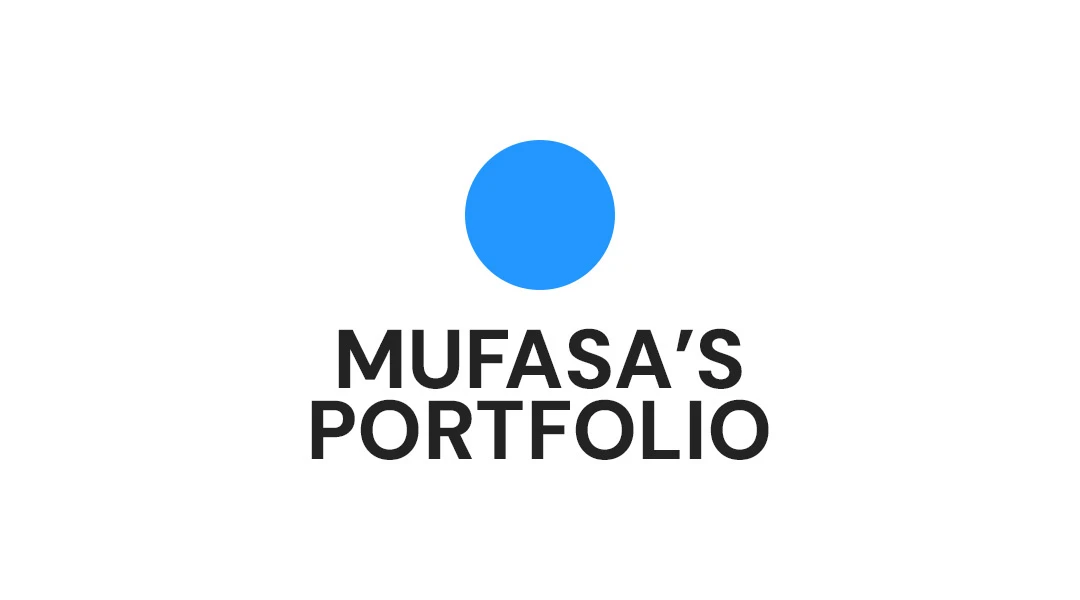
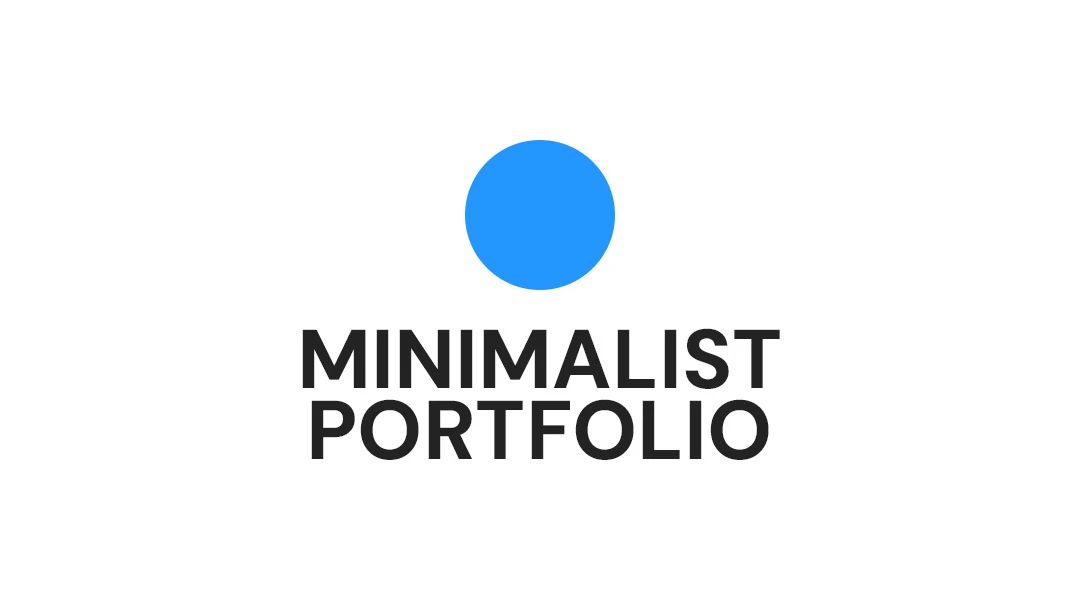
update: styling changes for article and content update for index.html

Changed region(s): [[0.275, 0.54, 0.7333, 0.66]]

diff --git a/index.html b/index.html
@@ -7,15 +7,15 @@
     <link rel="apple-touch-icon" href="/assets/favicon.ico">
 
     <!-- title -->
-    <title>Mufasa's Portfolio</title>
+    <title>Minimalist Portfolio</title>
 
     <!-- meta tags -->
-    <meta name="description" content="Mufasa's portfolio">
-    <meta name="keywords" content="mufasa, mufasa alam, muhfasul, muhfasul alam, mufasa a, alam, portfolio">
+    <meta name="description" content="A minimalist portfolio website, built with performance in mind.">
+    <meta name="keywords" content="portfolio, minimalist, web development, web design, projects, minimalism">
     <meta name="author" content="mufasa159">
     <meta name="robots" content="index, follow">
     <meta name="og:image" content="/assets/image.webp">
-    <meta name="og:url" content="https://mufasa.cc/">
+    <meta name="og:url" content="https://mufasa159.github.io/portfolio">
 
     <link rel="stylesheet" href="/css/variables.css">
     <link rel="stylesheet" href="/css/global.css">
@@ -36,6 +36,6 @@
     <div id="modal"></div>
 
     <!-- copyright -->
-    <footer><p>© 2021 - 2024 Muhfasul Alam, All rights reserved.</p></footer>
+    <footer><p>© 2021 - 2024 @mufasa159, All rights reserved.</p></footer>
 </body>
 </html>

diff --git a/css/components/article.css b/css/components/article.css
@@ -1,3 +1,5 @@
+@import url('https://fonts.googleapis.com/css2?family=Roboto+Mono:ital,wght@0,100..700;1,100..700&display=swap');
+
 .article {
     margin: -80px auto;
     max-width: 800px;
@@ -57,13 +59,38 @@ hr {
     border-top: 1px solid var(--component-background);
 }
 
-pre {
-    background-color: var(--code-background);
-    padding: 20px;
-    border: 1px solid var(--code-border);
-    border-radius: 5px;
-    font-size: 1em;
+pre,
+code {
+    font-family: 'Roboto Mono', monospace;
+    max-width: 100%;
     overflow-x: auto;
+    font-weight: 400;
+}
+
+pre {
+    font-size: 0.9rem;
+    background-color: var(--code-background);
+    padding: 10px;
+    border-radius: 5px;
+    border: 1px solid var(--code-border);
+    color: var(--code-text-block);
+}
+
+code {
+    font-size: 0.8rem;
+    background-color: var(--code-background);
+    padding: 2px 5px;
+    border-radius: 3px;
+    border: 1px solid var(--code-border);
+    color: var(--code-text-single);
+}
+
+pre code {
+    font-size: 0.9rem;
+    padding: 0;
+    border: none;
+    background-color: transparent;
+    color: var(--code-text-block);
 }
 
 img {

diff --git a/data/blog/sample_4.html b/data/blog/sample_4.html
@@ -42,7 +42,7 @@
     </section>
     <section>
         <h2>Example Code Snippets</h2>
-        <h3>Using Callbacks</h3>
+        <h3>Using <code>callbacks</code></h3>
 
         <!-- <pre> ensures that the indentation, line breaks, and white spaces are preserved. -->
         <!-- <code> semantically marks the content as code. -->
@@ -57,7 +57,7 @@ fetchData((message) => {
     console.log(message); // Data received
 });</code></pre>
 
-        <h3>Using Promises</h3>
+        <h3>Using <code>Promises</code></h3>
         <pre><code>function fetchData() {
     return new Promise((resolve, reject) => {
         setTimeout(() => {
@@ -73,7 +73,7 @@ fetchData()
     .catch((error) => {
         console.error(error);
     });</code></pre>
-        <h3>Using Async/Await</h3>
+        <h3>Using <code>async/await</code></h3>
         <pre><code>async function fetchData() {
     return new Promise((resolve, reject) => {
         setTimeout(() => {

diff --git a/css/variables.css b/css/variables.css
@@ -16,8 +16,10 @@
 
     /** for blog articles **/
     --article-text-alignment: justify;
-    --code-background: #F5F5F5;
-    --code-border: #A5A5A5;
+    --code-background: #F8F8F8;
+    --code-border: #CACACA;
+    --code-text-block: #232323;
+    --code-text-single: #Bf541F;
     --table-header-background: #F5F5F5;
     --table-border: #DDDDDD;
 }

diff --git a/css/global.css b/css/global.css
@@ -34,7 +34,8 @@ s::after {
     content: " [end of stricken text] ";
 }
 
-b {
+b,
+strong {
     font-weight: 600;
 }
 
